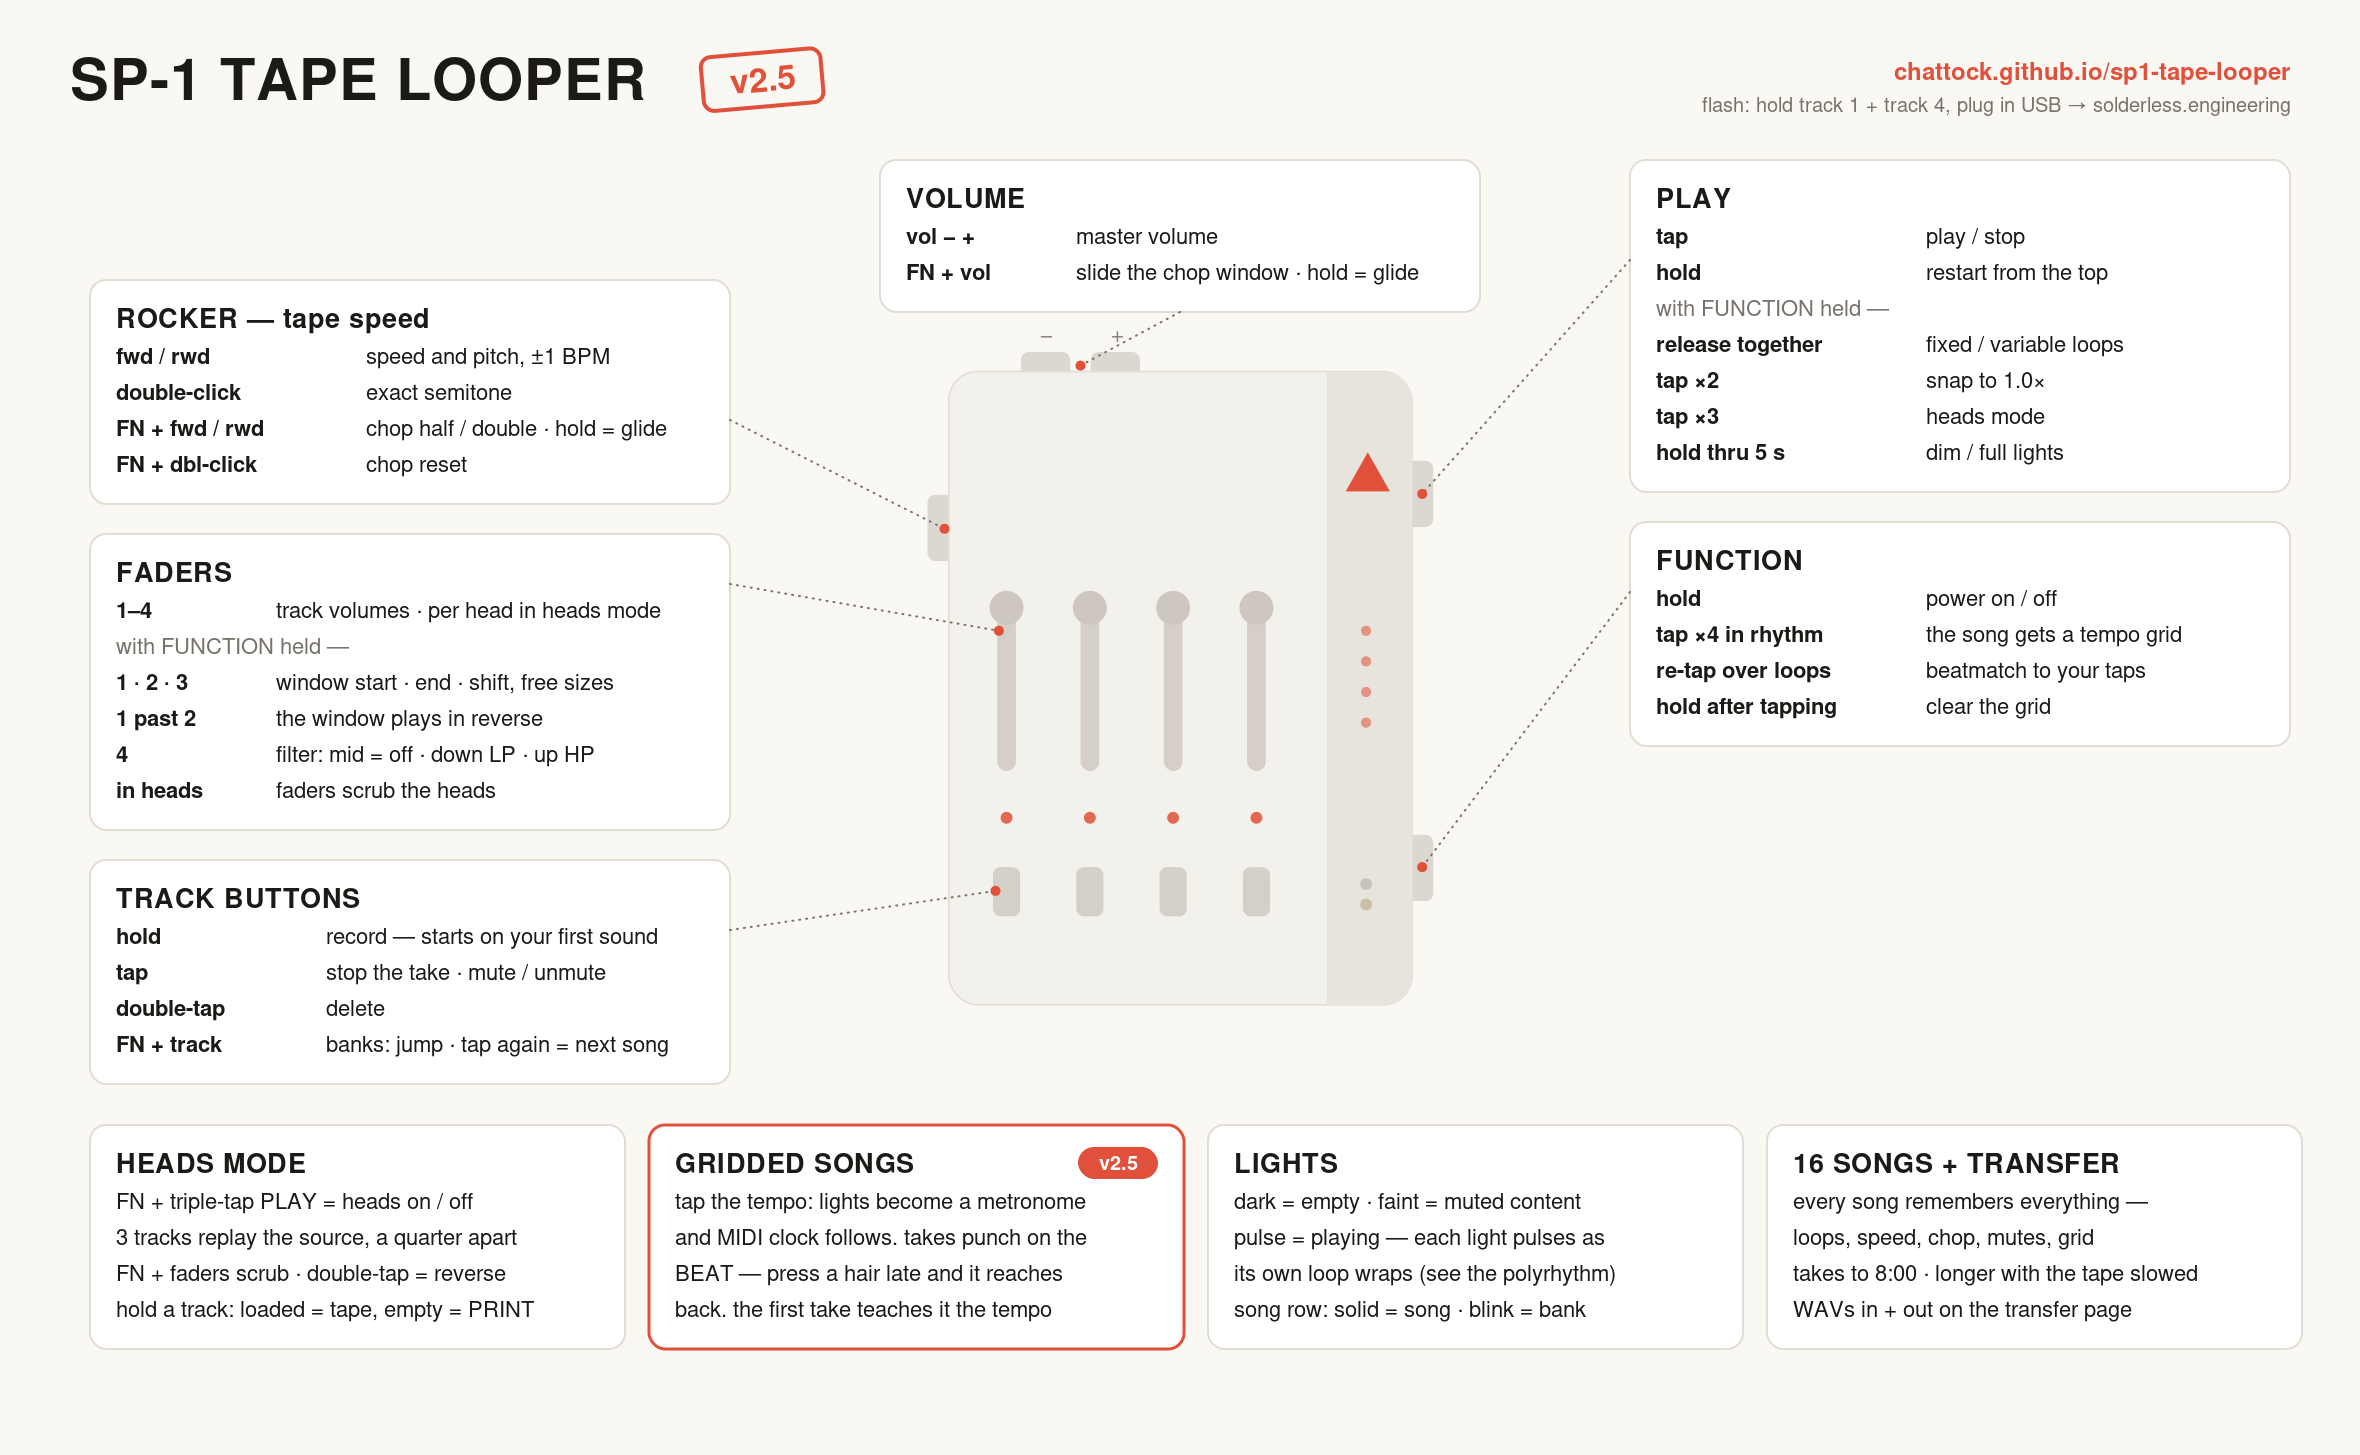
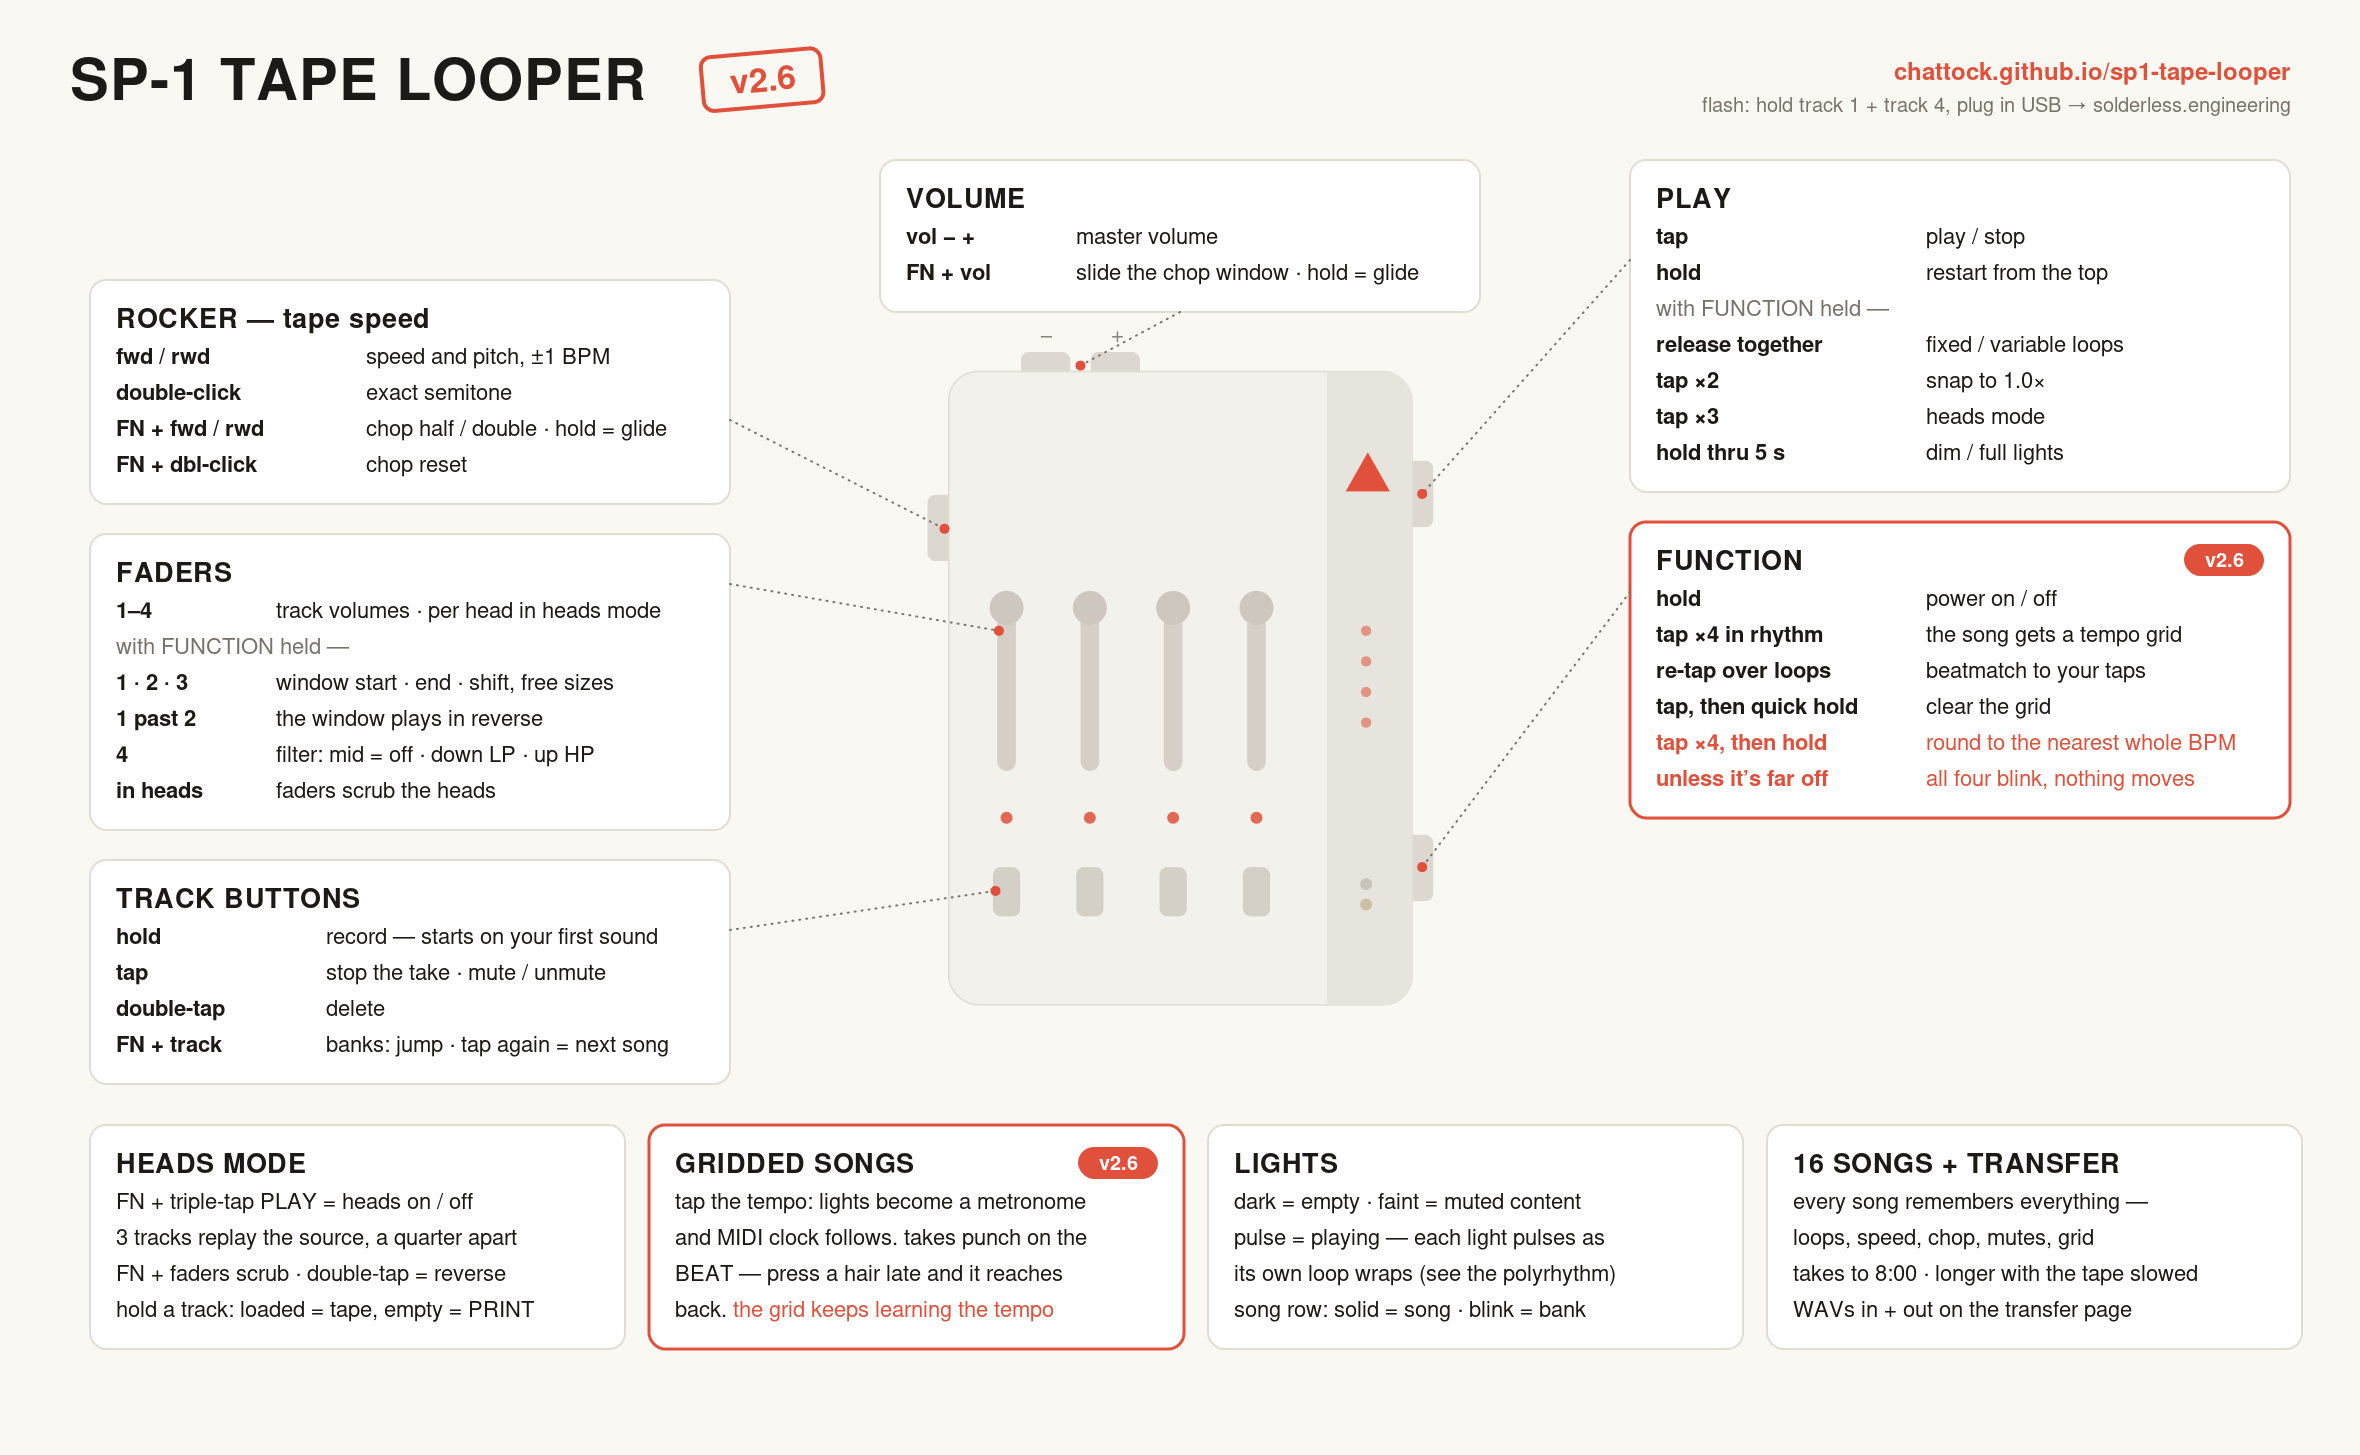
docs: v2.6.0 — one clock (+ v2.6 control map)

diff --git a/README.md b/README.md
@@ -254,6 +254,13 @@ The one-page map ([full size](docs/sp1-control-map.png)):
 - **FUNCTION + fader 4 = a DJ filter** on everything: center = clean,
   slide down = low-pass sweep, slide up = high-pass sweep. It latches
   where you leave it and resets to neutral at power-on.
+- **Moving the window doesn't gap the audio.** Sweeping a fader, or holding a
+  glide, used to stutter and drop out while you moved — every change threw
+  away the read-ahead and dipped the output, and a fader reports movement
+  many times a second. Continuous gestures now hold their edits and settle
+  once when you let go; single button presses still take effect instantly.
+  The trade is that during a sweep the window follows your hand with a
+  slight lag rather than jumping — you hear it travel.
 - Non-destructive: recorded audio, loop lengths, the beat grid and the MIDI
   clock are untouched. The chop is saved with the song. In fixed mode it
   slices the shared bar across all layers together; in variable mode each
@@ -336,10 +343,12 @@ The one-page map ([full size](docs/sp1-control-map.png)):
   light blinks on the beat instead of its usual 2 Hz.
 - The sync jack sends MIDI clock at the tapped tempo, even while stopped —
   tap along to your decks and the SP-1 clocks your gear to them.
-- **Clearing the grid:** tap FUNCTION, then press again and hold ~1 s — the
-  easiest way in is a double-tap where you hold the second press. Any tap
-  followed by a hold works, and the window is 3 s (it was 1.5 s, and nearly
-  impossible to hit). That hold can never power the device off.
+- **Clearing the grid:** tap FUNCTION, then **quickly** press again and hold
+  ~1 s — a double-tap where you hold the second press. The speed is the point:
+  the second press has to land within a fraction of a second of the tap, which
+  is faster than any tempo, and that is what tells this apart from tapping a
+  tempo and holding (which rounds the BPM instead). That hold can never power
+  the device off.
 - **Recording on a gridded song is quantized.** If the grid came from taps
   THIS session, the first take punches on it like an overdub — the phase
   you tapped in against the music is kept, not overwritten. (A grid that
@@ -349,22 +358,29 @@ The one-page map ([full size](docs/sp1-control-map.png)):
   pressing just before a line catches that line — and pressing just AFTER
   one is caught too: the record ring always holds the last ~340 ms of
   input, so a late punch reaches back to the line you passed and fills the
-  gap from memory (up to a quarter beat, and never more than 120 ms —
-  beyond that it waits for the next line, because a press that late
-  usually meant the next one). Stops round to the NEAREST beat with at
-  most half a beat of run-on and the REC light double-blinking; a second
-  tap during any count-out trims to a whole beat. Loop lengths are rounded
-  ONCE for the whole take and later takes reference the same base, so
-  every loop is an exact whole number of beats and an exact multiple of
-  its siblings. Songs without a grid record exactly as before.
-- **The first take teaches the tempo.** Tapping lands 0.2–1% off, and that
-  error is what walks a loop off the track it was recorded from. The onset
-  estimator now measures the real beat from the audio of your first take
-  and retunes the grid, the metronome and the MIDI clock to it — accepted
-  only when it agrees with your tap to within 5%, so ambiguous material
-  simply keeps what you tapped. A click-track bench measures an eight-beat
-  take at exactly eight beats, to the sample, with 0.02 ms of drift across
-  the loop.
+  gap from memory (up to a third of a beat — beyond that it waits for the
+  next line, because a press that late usually meant the next one). Stops
+  round to the NEAREST beat with at most half a beat of run-on and the REC
+  light double-blinking; a second tap during any count-out trims to a whole
+  beat. Loop lengths are stored to the **sample**, not rounded to flash
+  blocks, so a loop is exactly the number of beats you played and an exact
+  multiple of its siblings. Songs without a grid record exactly as before.
+- **The grid keeps learning the tempo.** Tapping lands 0.2–1% off, and that
+  error is what walks a loop off the track it was recorded from. Every
+  gridded take leaves a landmark — its first onset — and the music runs at
+  one tempo through all of them, so each take is measured against your
+  *first* one and the baseline grows all session. A rough tap ends up exact
+  after a couple of takes without you doing anything. Corrections are small
+  and need enough material to be sure. A click-track bench at 128.000 BPM:
+  a tap of 128.24 refined to 127.985, converged on 128.000, then found
+  nothing left to correct — an eight-beat take comes back as exactly eight
+  beats, to the sample. This fixes how *fast*, not where "one" is.
+- **Round to a whole BPM.** Tap a tempo, then hold FUNCTION about a second.
+  The track lights sweep, catch the beat the grid is on, and the tempo
+  rounds to the nearest whole number. If your tap isn't near one it won't
+  guess — all four lights blink together and nothing changes, because a
+  deck sitting at 122.2 is hurt by being forced to 122. Nothing persists
+  either way; there is no mode to leave.
 - **Tap-to-beatmatch:** once a song has loops, a fresh 4+ tap run means
   "match THIS": the tape retunes so your loops play at the tapped tempo
   (vinyl-style — pitch moves too, clamped to the 0.5–1.5x range) and the

diff --git a/CHANGELOG.md b/CHANGELOG.md
@@ -5,6 +5,73 @@ Versions 1.0.0-1.2.4 below were the 2.0 development line (developed as a
 fork by marc, never announced) — kept for the honest record. The classic
 4-song firmware lives on the `v1` branch. Base: 1.x at commit c60941c.
 
+## [2.6.0] - 2026-08-05
+
+One clock. v2.5.0's bench ran at 120 BPM — one of only twelve
+integer tempos whose eight-beat loop lands exactly on a flash-block boundary —
+so it could not see what was left. A 128.000 BPM bench found it, plus five bugs
+of its own and a way to round to the nearest whole number BPM. An eight-beat take 
+now comes back as **exactly 180000 samples at exactly 128.000 BPM** and stays locked 
+to takes recorded minutes later. No format change: songs, grids and settings survive.
+
+### Added
+
+- **The grid learns the tempo from what you played.** Every gridded take leaves
+  a landmark — its first onset — and the music runs at one tempo through all of
+  them. Each take is measured against your *first*, so the baseline grows all
+  session and the estimate sharpens. Bench: a tap of 128.24 refined to 127.985,
+  converged on 128.000, then found nothing left to correct. Fixes tempo, not
+  phase — the downbeat stays yours.
+- **Round to a whole BPM.** Tap a tempo, hold FUNCTION about a second: the
+  lights sweep, catch the beat, and the grid rounds. If the tap isn't near a
+  whole number it declines and all four lights blink.
+
+### Changed
+
+- **Loop geometry is samples, not 512-byte blocks.** At 128 an eight-beat take
+  stored 179968 against a true 180000 — 32 samples a lap, ~10.7 ms/min. Worse,
+  the grid kept the *true* beat while the loop wrapped at the *stored* one, so
+  they slid apart at four samples per beat and a late overdub punched where the
+  grid was, not where the loop was. That was the layering complaint.
+- **Window gestures no longer flush the audio.** Every edit used to drop the
+  read-ahead and dip master gain to zero; the fader commits every 60 ms, so a
+  sweep was a ~16 Hz tremolo with real silence under it. Reported by
+  geraasmasjien and luuuciano. Continuous gestures settle once on release now;
+  button presses stay instant. The window trails your hand instead of jumping.
+- **A late punch is forgiven up to a third of a beat**, was a quarter.
+- **One owner for the beat** — it lived in three variables written from twelve
+  places, tied by a convention asserted once and never re-checked.
+
+### Fixed
+
+- **A later take could shove an earlier one half a beat out of time**, in one
+  step, when a second recording finished. The rescale after a tempo correction
+  clamped each loop to its *recorded audio* — but a gridded take is deliberately
+  longer, since the stop rounds to the nearest beat and pads to the line. That
+  pad was discarded. Needs a second landmark to fire, which is why take one was
+  always fine.
+- **The loop and the grid could land on different tempos** — 22612 against
+  22504, 0.48%, walking the first take ~290 ms/min away from everything after
+  it.
+- **Overdubs came back at the wrong point in the loop** after a song switch or
+  power-cycle: the anchor was read one line before it was loaded, so it used the
+  previous song's value. First takes anchor at zero and always survived.
+- **Reverse survived a rocker reset.** With the faders crossed, FUNCTION +
+  rocker double-click silently un-reversed playback while the faders still said
+  reverse. Reported by nervouskidz.
+- **Deleting a still-flushing take switched off the late-punch rescue** for the
+  session, silently.
+- **MIDI clock ran fast** — the tick truncated and accumulated, ~32 ms/min.
+- **The DJ filter ducked entering high-pass**, and could wrap and click on a
+  loud four-track mix near its top corner.
+
+### Known limits
+
+- Prints and chopped windows stay block-quantized and can drift slightly over
+  several minutes. Recorded takes don't. (This can be improved in the future)
+- Anchors reload rounded to a block (<3 ms, once per song load, this can be improved in the future).
+- Printing is slower at high tape speed: the render yields to playback.
+
 ## [2.5.0] - 2026-07-30
 
 Timing truth. luuuciano reported that loops recorded over a track he was
